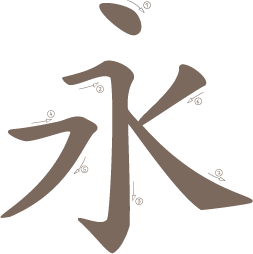
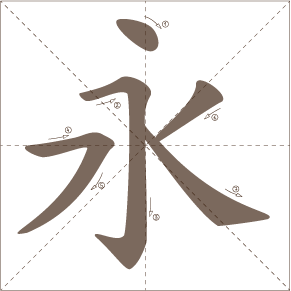
farbe schrift

diff --git a/src/components/DrawingCanvas/DrawingCanvas.jsx b/src/components/DrawingCanvas/DrawingCanvas.jsx
@@ -82,7 +82,7 @@ const DrawingCanvas = () => {
             );
             const x = (canvas.width - img.width * scale) / 2;
             const y = (canvas.height - img.height * scale) / 2;
-            ctx.globalAlpha = 0.3; // SVG etwas transparent
+            ctx.globalAlpha = 1;
             ctx.drawImage(img, x, y, img.width * scale, img.height * scale);
             ctx.globalAlpha = 1;
         }

diff --git a/src/components/PracticePage/PracticePage.jsx b/src/components/PracticePage/PracticePage.jsx
@@ -76,7 +76,7 @@ const PracticePage = ({
             );
             const x = (canvas.width - img.width * scale) / 2;
             const y = (canvas.height - img.height * scale) / 2;
-            ctx.globalAlpha = 0.3;
+            ctx.globalAlpha = 1;
             ctx.drawImage(img, x, y, img.width * scale, img.height * scale);
             ctx.globalAlpha = 1;
         }
